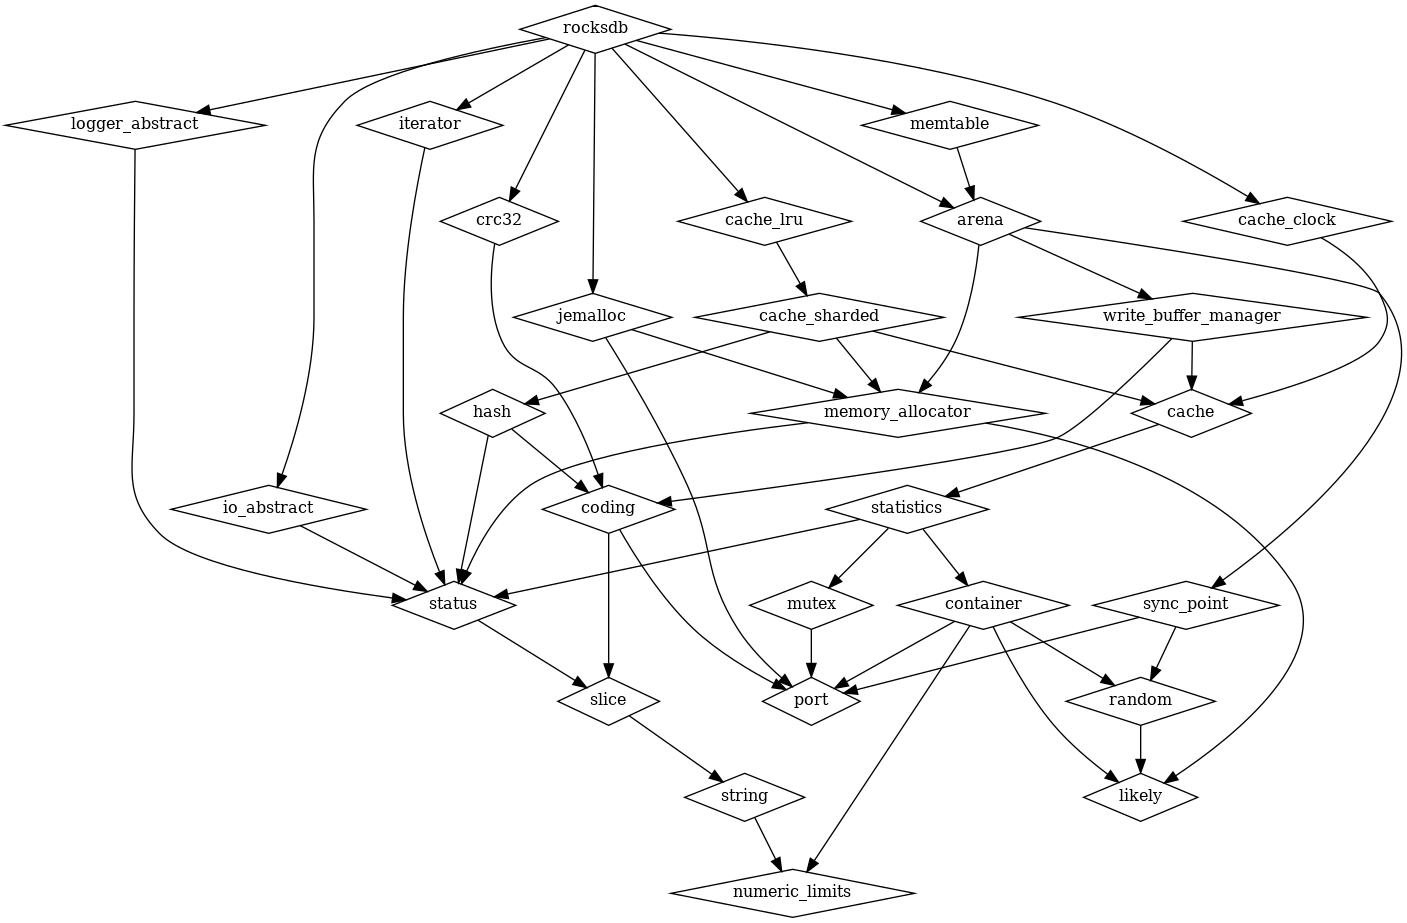
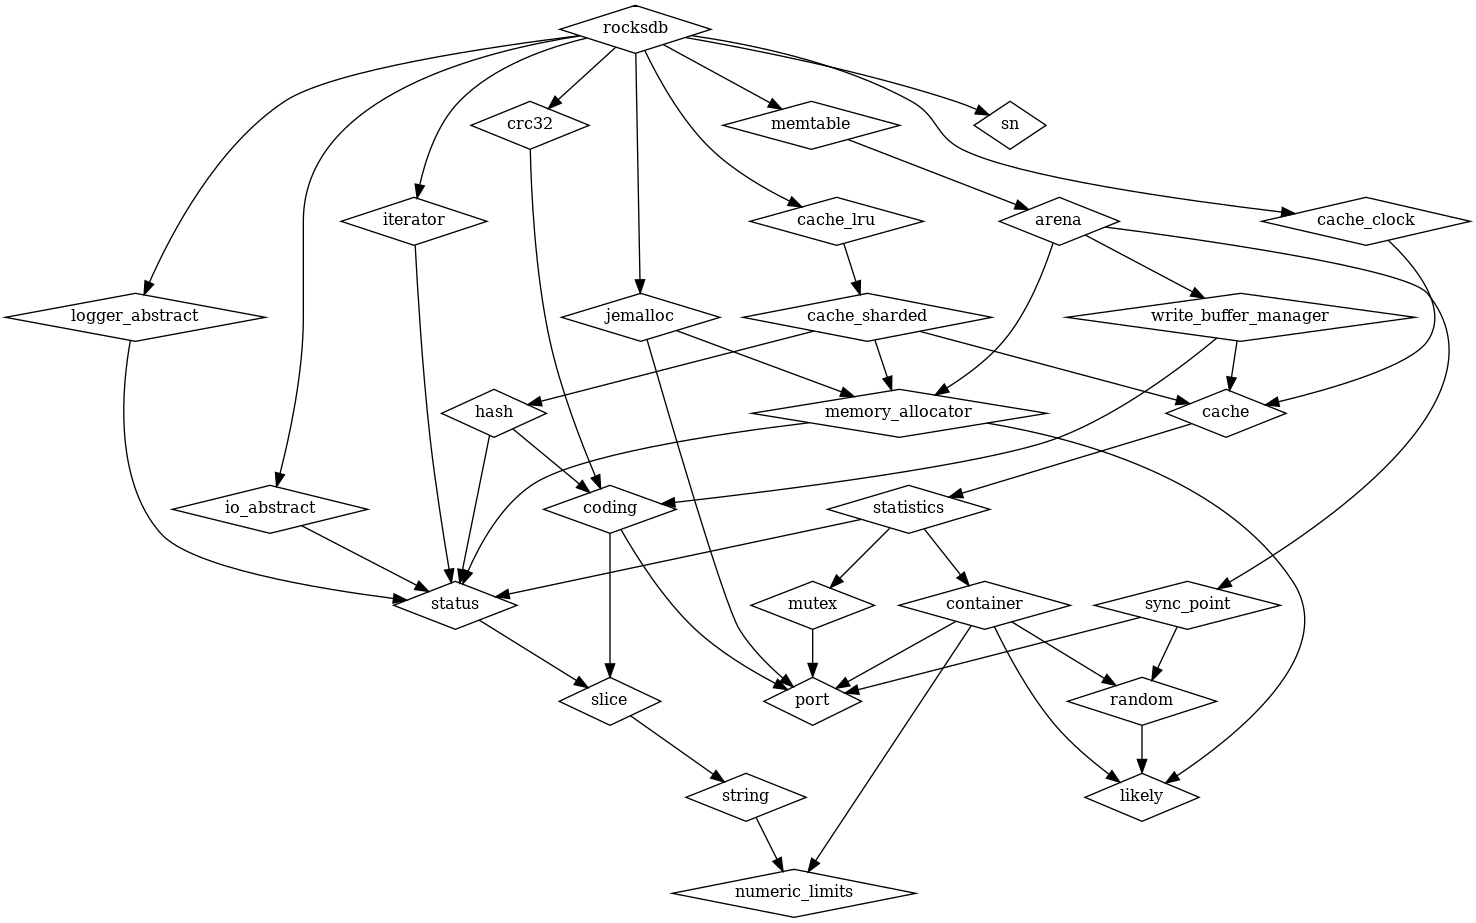
Create sn library

diff --git a/include/rocksdb/types.h b/include/rocksdb/types.h
@@ -7,15 +7,14 @@
 
 #include <stdint.h>
 #include <rock/slice/Slice.h>
+#include <rock/sn/SequenceNumber.h>
+
 
 namespace rocksdb {
 
 // Define all public custom types here.
 
-// Represents a sequence number in a WAL file.
-typedef uint64_t SequenceNumber;
 
-const SequenceNumber kMinUnCommittedSeq = 1;  // 0 is always committed
 
 // User-oriented representation of internal key types.
 enum EntryType {

diff --git a/libs/sn/include/rock/sn/SequenceNumber.h b/libs/sn/include/rock/sn/SequenceNumber.h
@@ -1,0 +1,12 @@
+#pragma once
+
+#include <cstdint>
+
+namespace rocksdb {
+
+// Represents a sequence number in a WAL file.
+typedef uint64_t SequenceNumber;
+
+const SequenceNumber kMinUnCommittedSeq = 1;  // 0 is always committed
+
+}

diff --git a/db/lookup_key.h b/db/lookup_key.h
@@ -10,9 +10,8 @@
 #pragma once
 #include <string>
 #include <utility>
-#include "rocksdb/db.h"
 #include <rock/slice/Slice.h>
-#include "rocksdb/types.h"
+#include <rock/sn/SequenceNumber.h>
 
 namespace rocksdb {
 

diff --git a/libs/sn/tests/main.cpp b/libs/sn/tests/main.cpp
@@ -1,0 +1,9 @@
+#include <gtest/gtest.h>
+
+int main( int argc, char **argv ) 
+{
+    ::testing::InitGoogleTest(&argc, argv);
+    return RUN_ALL_TESTS();
+}
+
+

diff --git a/libs/sn/tests/base.cpp b/libs/sn/tests/base.cpp
@@ -1,0 +1,13 @@
+#include <gtest/gtest.h>
+
+// #include <rock/sn/sn.h>
+
+
+//
+//
+TEST( sn, constructor )
+{
+
+}
+
+

diff --git a/libs/sn/src/SequenceNumber.cpp b/libs/sn/src/SequenceNumber.cpp
@@ -1,0 +1,1 @@
+#include <rock/sn/SequenceNumber.h>
